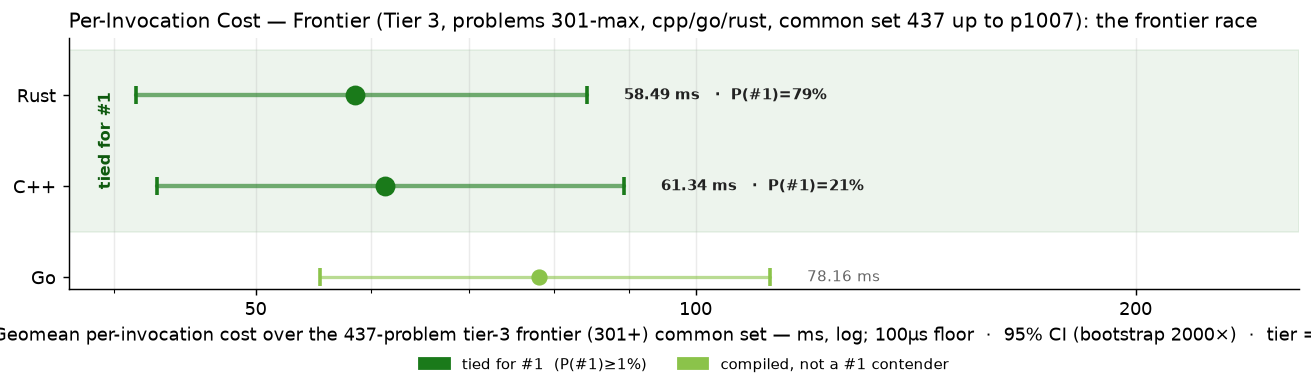
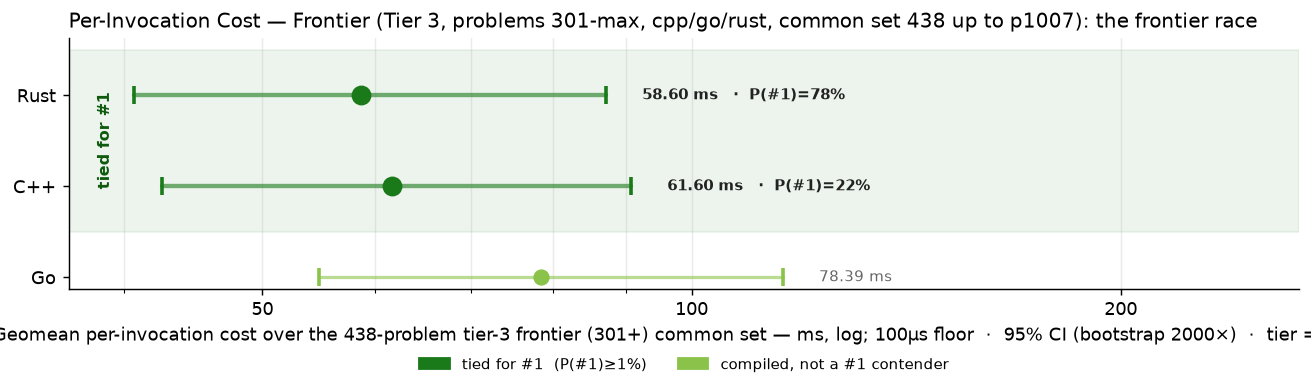
bench: frontier trio solve p0750

diff --git a/RESULTS.md b/RESULTS.md
@@ -1,6 +1,6 @@
 # Project Euler — Cross-Language Benchmarks
 
-> **Scope: 4521 in-scope cells across 1007 problems × tiered languages — 3726 measured (82.4% coverage).**
+> **Scope: 4521 in-scope cells across 1007 problems × tiered languages — 3729 measured (82.5% coverage).**
 > The cross-language ranking below is computed over the **199-problem common set** (problems in 1-200 where every language has a passing measurement) — the apples-to-apples Foundation comparison surface.  Per-tier rankings and coverage detail appear further below.
 > Growing carefully — each new problem and language is audited for state-leak
 > safety, verified for answer correctness, and added only when it cleanly fits the
@@ -70,15 +70,15 @@ Same scatter as the Foundation chart, restricted to the tier-2 active languages 
 
 The frontier verification trio — C++, Go, Rust — on problems above 300. 3-way cross-language agreement is the verification protocol (strictly stronger than 2-way; see JOURNEY.md "Tier Reframing" episode for the p254 lesson that motivated it). Python and Zig are explicitly out of this tier — python's wall cost makes it impractical at level 5+, and zig's role caps at Tier 2.
 
-### Per-Invocation Cost (Common Set, 437 of ≤707 problems in scope)
+### Per-Invocation Cost (Common Set, 438 of ≤707 problems in scope)
 
 ![Per-Invocation Cost — Tier 3](charts/per_iter_total_tier3.png)
 
-| Rank | Language | Geomean (437-problem common set) | Total (sum) | Lines of code | vs Fastest |
+| Rank | Language | Geomean (438-problem common set) | Total (sum) | Lines of code | vs Fastest |
 |------|----------|--------------------:|------------:|--------------:|-----------:|
-| 1 | **Rust** | 58.49 ms | 1277.00 s | 61,399 | 1.00× |
-| 2 | **C++** | 61.34 ms | 1298.79 s | 49,369 | 1.05× |
-| 3 | **Go** | 78.16 ms | 1543.60 s | 63,177 | 1.34× |
+| 1 | **Rust** | 58.60 ms | 1277.14 s | 61,512 | 1.00× |
+| 2 | **C++** | 61.60 ms | 1299.16 s | 49,486 | 1.05× |
+| 3 | **Go** | 78.39 ms | 1543.88 s | 63,283 | 1.34× |
 
 ### Speed vs Code Size
 

diff --git a/per_problem/per_problem_0701-0800.md b/per_problem/per_problem_0701-0800.md
@@ -57,7 +57,7 @@ in tier-1 display order (native → managed → interpreted).
 | **p0747** | — | — | — |
 | **p0748** | — | — | — |
 | **p0749** | 1.81 s | 445.82 ms | 2.74 s |
-| **p0750** | — | — | — |
+| **p0750** | 373.78 ms | 133.54 ms | 273.28 ms |
 | **p0751** | 135.4 µs | 298.2 µs~ | 12.21 ms |
 | **p0752** | 927.05 ms | 602.18 ms | 943.41 ms |
 | **p0753** | — | — | — |
